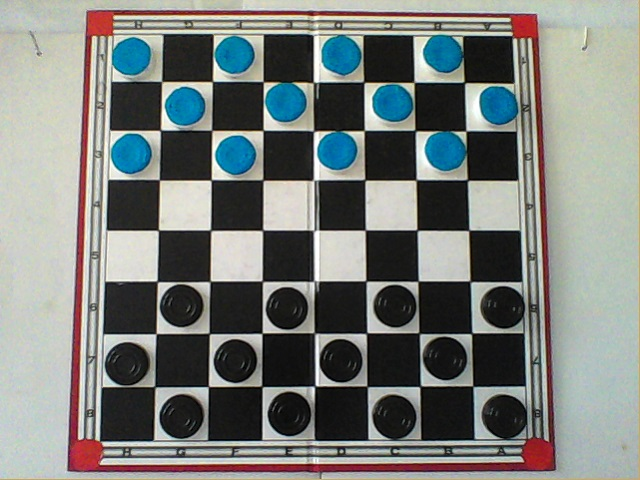
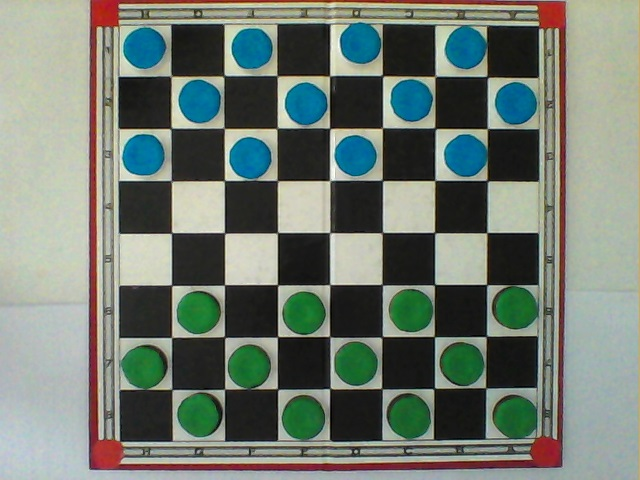
Dodanie detekcji dla zielonego koloru, aktualizacja testowego obrazu szachownicy

diff --git a/shape_recognize/color_detection.py b/shape_recognize/color_detection.py
@@ -23,9 +23,15 @@ while(1):
     # fiolet
     lower_violet = np.array([153,0,78])
     upper_violet = np.array([255,204,229])
+    # green
+    # lower_green = np.array([34,139,34])
+    # upper_green = np.array([152,251,230])
+    lower_green = np.array([40,70,70])
+    upper_green = np.array([80,200,200])
     # masks
     # mask = cv2.inRange(hsv, lower_blue, upper_blue)
-    mask = black
+    # mask = black
+    mask = cv2.inRange(hsv, lower_green, upper_green )
     # mask = cv2.addWeighted(lower_red,1.0,upper_red,1.0,0.0)
     # mask = cv2.inRange(hsv,lower_violet, upper_violet)
     # zakres brany z http://www.rapidtables.com/web/color/RGB_Color.html
